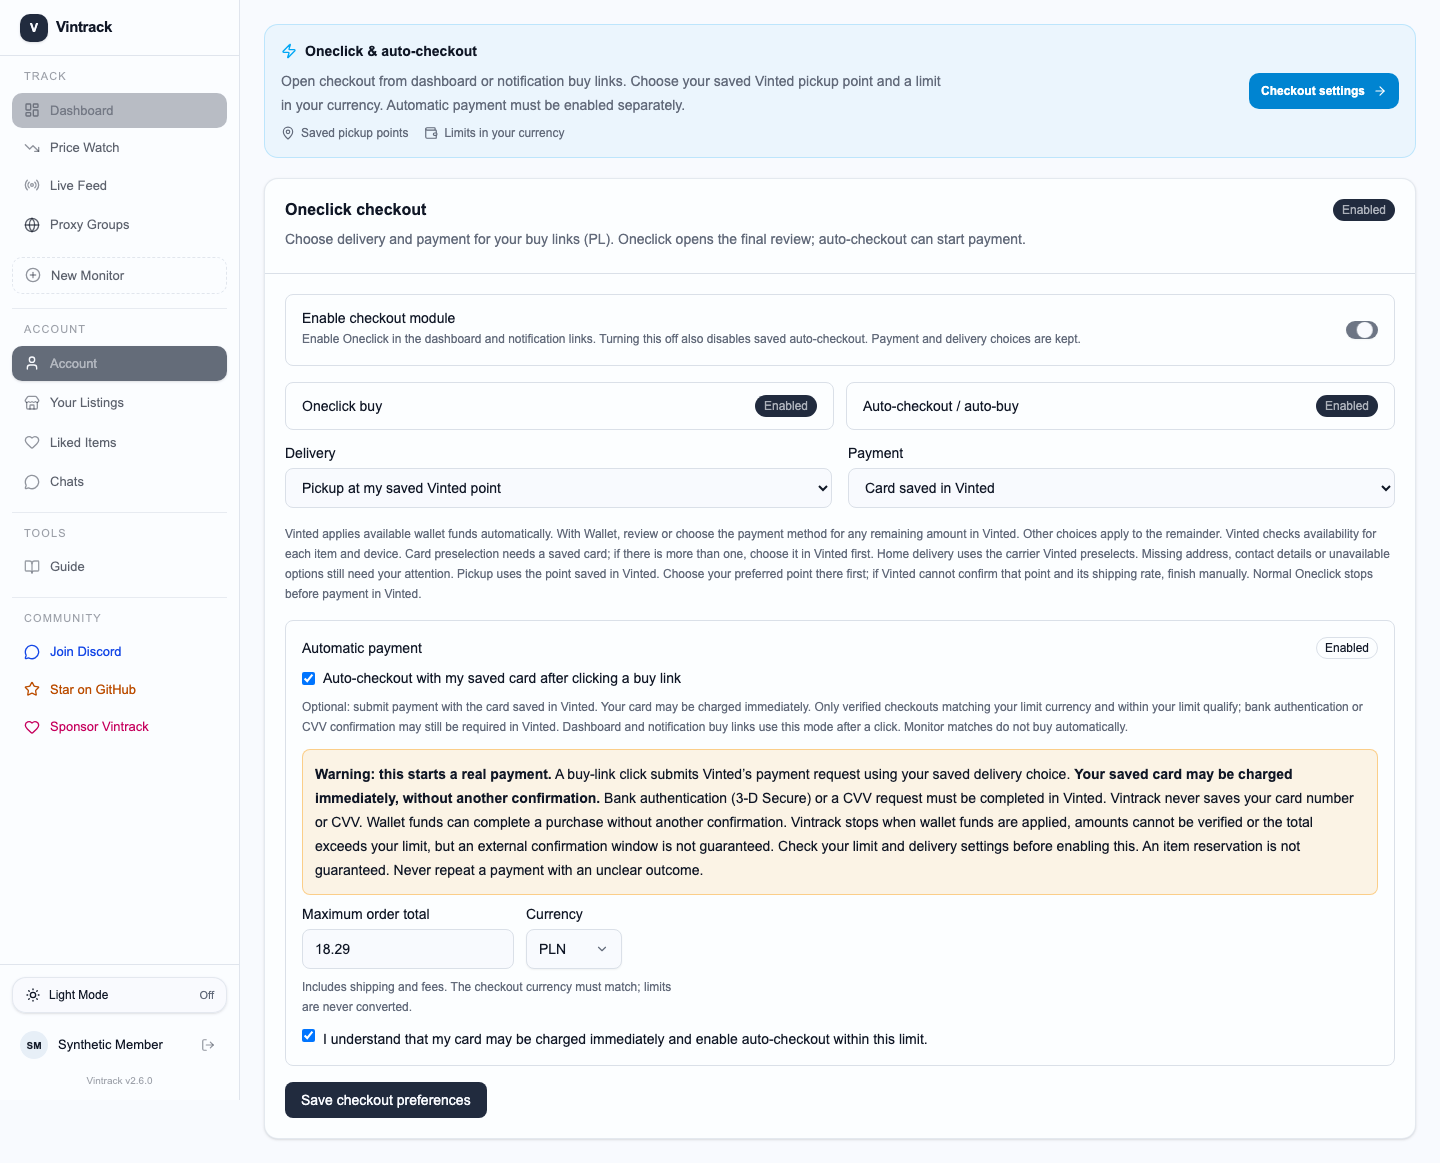
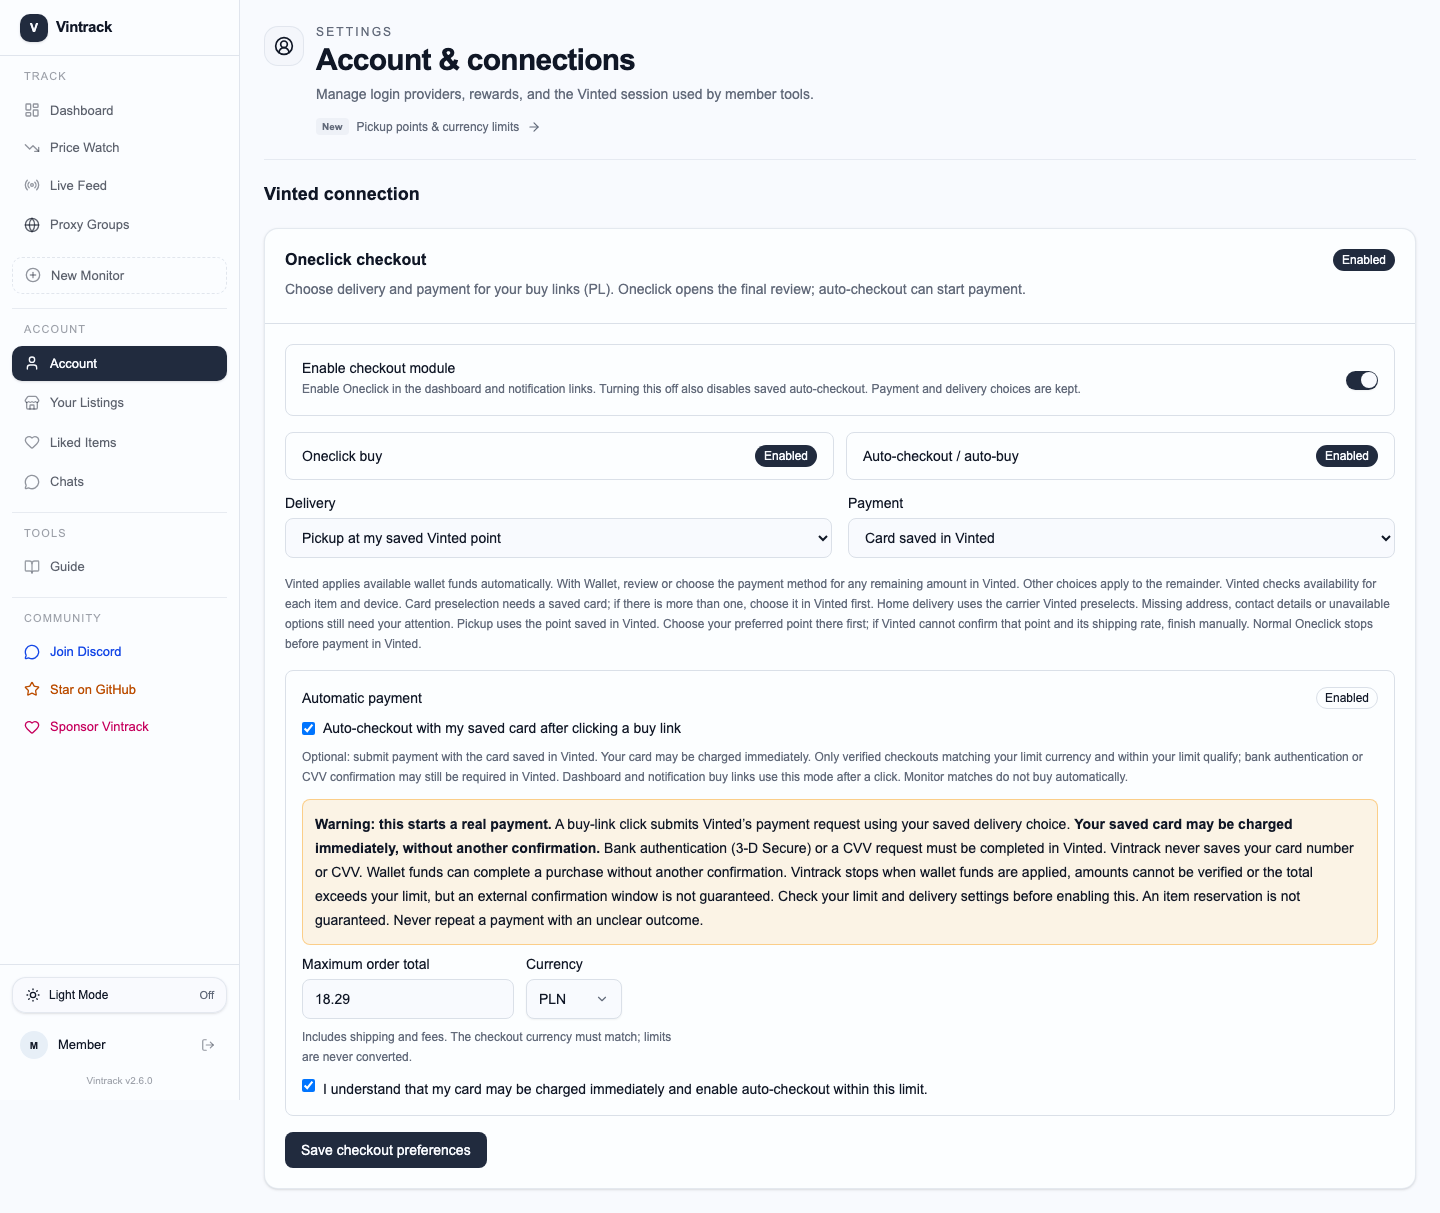
Simplify checkout feature hints

diff --git a/apps/control-center/src/components/announcements/checkout-update-notice.tsx b/apps/control-center/src/components/announcements/checkout-update-notice.tsx
@@ -1,31 +1,23 @@
 "use client";
 
+import { useEffect, useState } from "react";
 import Link from "next/link";
 import { usePathname } from "next/navigation";
-import { ArrowRight, MapPin, Wallet, Zap } from "lucide-react";
+import { ArrowRight, X } from "lucide-react";
 import { shouldShowCheckoutUpdate } from "@/lib/account-updates";
 import type { FeatureAccessResult } from "@/lib/features";
-import type { MemberAnnouncement } from "@/lib/member-announcement";
-import { MemberAnnouncementBanner } from "@/components/announcements/member-announcement-banner";
 import { useMonitorMaintenance } from "@/components/maintenance/monitor-maintenance-context";
 
-const checkoutAnnouncement: MemberAnnouncement = {
-    enabled: true,
-    revision: "checkout-pickup-currencies-v2",
-    variant: "info",
-    title: "New in checkout: saved pickup points & currency limits",
-    message:
-        "Use your Vinted pickup point and set a spending limit in your currency. Automatic payment requires a separate opt-in.",
-    cta: {
-        label: "Explore checkout",
-        url: "/account?connection=vinted#checkout-settings",
-    },
-    dismissible: true,
-    audiences: ["free", "premium", "admin"],
-    placements: ["monitors", "live_feed", "guide"],
-    startsAt: null,
-    endsAt: null,
-};
+const dismissalKey =
+    "vintrack:member-announcement:dismissed:checkout-pickup-currencies-v2";
+
+function NewBadge() {
+    return (
+        <span className="bg-muted text-muted-foreground shrink-0 rounded px-1.5 py-0.5 text-[10px] font-semibold">
+            New
+        </span>
+    );
+}
 
 export function CheckoutUpdateNotice({
     seenVersion,
@@ -36,56 +28,84 @@ export function CheckoutUpdateNotice({
 }) {
     const pathname = usePathname();
     const { maintenance } = useMonitorMaintenance();
+    const [dismissed, setDismissed] = useState(false);
+    const [dismissalChecked, setDismissalChecked] = useState(false);
+
+    useEffect(() => {
+        let active = true;
+        queueMicrotask(() => {
+            if (!active) return;
+            try {
+                setDismissed(localStorage.getItem(dismissalKey) === "1");
+            } catch {
+                // The notice remains dismissible when browser storage is unavailable.
+            }
+            setDismissalChecked(true);
+        });
+        return () => {
+            active = false;
+        };
+    }, []);
+
     if (
+        !dismissalChecked ||
+        dismissed ||
         maintenance.enabled ||
         !shouldShowCheckoutUpdate(seenVersion, access, pathname)
     )
         return null;
     return (
-        <div className="mb-4">
-            <MemberAnnouncementBanner announcement={checkoutAnnouncement} />
+        <div className="mb-4 flex w-fit max-w-full items-center gap-2">
+            <Link
+                href="/account?connection=vinted#checkout-settings"
+                className="text-muted-foreground hover:text-foreground group inline-flex min-w-0 items-center gap-2 rounded py-1 text-xs transition-colors focus-visible:outline-2 focus-visible:outline-offset-2"
+            >
+                <NewBadge />
+                <span>Checkout: saved pickup points &amp; currency limits</span>
+                <ArrowRight
+                    className="size-3.5 shrink-0 transition-transform group-hover:translate-x-0.5"
+                    aria-hidden="true"
+                />
+            </Link>
+            <button
+                type="button"
+                aria-label="Dismiss checkout update"
+                className="text-muted-foreground hover:text-foreground hover:bg-muted inline-flex size-8 shrink-0 items-center justify-center rounded transition-colors focus-visible:outline-2 focus-visible:outline-offset-2"
+                onClick={() => {
+                    setDismissed(true);
+                    try {
+                        localStorage.setItem(dismissalKey, "1");
+                    } catch {
+                        // Dismissal still applies for the current page.
+                    }
+                }}
+            >
+                <X className="size-3.5" aria-hidden="true" />
+            </button>
         </div>
     );
 }
 
-export function CheckoutFeatureOverview({ linked }: { linked: boolean }) {
+export function CheckoutFeatureShortcut({ linked }: { linked: boolean }) {
     return (
-        <section
-            aria-label="What's new in checkout"
-            className="flex flex-col gap-4 rounded-xl border border-sky-500/20 bg-sky-500/5 p-4 sm:flex-row sm:items-center"
+        <Link
+            href={
+                linked
+                    ? "/account?connection=vinted#checkout-settings"
+                    : "/account?connection=vinted#vinted-connection"
+            }
+            className="text-muted-foreground hover:text-foreground group mt-2 inline-flex items-center gap-2 rounded py-1 text-xs transition-colors focus-visible:outline-2 focus-visible:outline-offset-2"
         >
-            <div className="min-w-0 flex-1 space-y-2">
-                <p className="flex items-center gap-2 text-sm font-semibold">
-                    <Zap className="size-4 text-sky-500" aria-hidden="true" />
-                    Oneclick & auto-checkout
-                </p>
-                <p className="text-muted-foreground max-w-2xl text-sm leading-6">
-                    Open checkout from dashboard or notification buy links.
-                    Choose your saved Vinted pickup point and a limit in your
-                    currency. Automatic payment must be enabled separately.
-                </p>
-                <div className="text-muted-foreground flex flex-wrap gap-x-4 gap-y-1 text-xs">
-                    <span className="inline-flex items-center gap-1.5">
-                        <MapPin className="size-3.5" aria-hidden="true" />
-                        Saved pickup points
-                    </span>
-                    <span className="inline-flex items-center gap-1.5">
-                        <Wallet className="size-3.5" aria-hidden="true" />
-                        Limits in your currency
-                    </span>
-                </div>
-            </div>
-            <Link
-                href={
-                    linked
-                        ? "/account?connection=vinted#checkout-settings"
-                        : "/account?connection=vinted#vinted-connection"
-                }
-                className="inline-flex h-9 shrink-0 items-center justify-center gap-2 self-start rounded-lg bg-sky-600 px-3 text-xs font-semibold text-white hover:bg-sky-700 sm:self-auto"
-            >
-                {linked ? "Checkout settings" : "Link Vinted to get started"}
-                <ArrowRight className="size-3.5" aria-hidden="true" />
-            </Link>
-        </section>
+            <NewBadge />
+            <span>
+                {linked
+                    ? "Pickup points & currency limits"
+                    : "Link Vinted for pickup points & currency limits"}
+            </span>
+            <ArrowRight
+                className="size-3.5 shrink-0 transition-transform group-hover:translate-x-0.5"
+                aria-hidden="true"
+            />
+        </Link>
     );
 }

diff --git a/apps/control-center/src/app/(dashboard)/account/page.tsx b/apps/control-center/src/app/(dashboard)/account/page.tsx
@@ -8,7 +8,7 @@ import { getMemberGithubRewardStatus } from "@/lib/github-rewards.server";
 import { GithubRewardStatusCard } from "@/components/github-reward-status-card";
 import { CircleUserRound, Github, ShoppingBag } from "lucide-react";
 import { cn } from "@/lib/utils";
-import { CheckoutFeatureOverview } from "@/components/announcements/checkout-update-notice";
+import { CheckoutFeatureShortcut } from "@/components/announcements/checkout-update-notice";
 import { checkoutFeatureDiscoverable } from "@/lib/account-updates";
 import { getFeatureAccessForUser } from "@/lib/features.server";
 import { db } from "@/lib/db";
@@ -77,12 +77,11 @@ export default async function AccountPage({
                         Manage login providers, rewards, and the Vinted session
                         used by member tools.
                     </p>
+                    {checkoutFeatureDiscoverable(checkoutAccess) && (
+                        <CheckoutFeatureShortcut linked={status.linked} />
+                    )}
                 </div>
             </header>
-
-            {checkoutFeatureDiscoverable(checkoutAccess) && (
-                <CheckoutFeatureOverview linked={status.linked} />
-            )}
 
             <nav
                 aria-label="Account connections"

diff --git a/docs/checkout-pickup-gbp.md b/docs/checkout-pickup-gbp.md
@@ -127,28 +127,29 @@ compact and the currency remains beside it even on wide Account pages.
 
 Account update version 2 reactivates the existing **New** badge for members
 who saw the original account update. Dashboard, monitor, feed and guide pages
-show a dismissible checkout announcement with a direct link to
+show a compact, dismissible text link with a neutral **New** badge to
 `/account?connection=vinted#checkout-settings`. It also appears when the member
 has left the checkout module off, while respecting administrator role/feature
 restrictions. Maintenance takes precedence and hides this promotion.
 
-Account includes a short feature overview above its connections. Linked users
+Account includes a small feature shortcut under its header description. Linked users
 can jump straight to the anchored checkout card; unlinked users are directed
 to their Vinted connection. Visiting Account acknowledges the update through
 the existing authenticated per-member version field. This removes the badge
 and dashboard notice across browsers without enabling checkout, accepting
-payment warnings or altering payment preferences. Dismissing only the banner
-uses its own existing local-storage revision key.
+payment warnings or altering payment preferences. Dismissing the dashboard hint
+uses its existing local-storage revision key, so previous dismissals stay valid.
+The checkout promotion has no separate colored panel or banner.
 
 Validation: 228 dashboard unit tests, lint and production build passed. Isolated
-desktop/mobile checks rendered the real sidebar, announcement, overview and
+desktop/mobile checks rendered the real sidebar, inline hint, header shortcut and
 checkout card with synthetic data. They verified compact field widths,
 adjacent currency, direct-link anchors, policy and live-maintenance suppression,
 dismissal, and per-member acknowledgement. Currency changes still clear the
 amount and acceptance. No real member records were written during these checks.
 
-![Compact limit and Account overview](screenshots/checkout-compact-limit.png)
-![Checkout announcement on mobile](screenshots/checkout-member-update-mobile.png)
+![Compact limit and Account header shortcut](screenshots/checkout-compact-limit.png)
+![Compact checkout hint on mobile](screenshots/checkout-member-update-mobile.png)
 
 Isolated desktop/mobile checks passed for compact width, bounded results,
 search/keyboard selection, invalid-search isolation and exact JPY/KWD limits.
